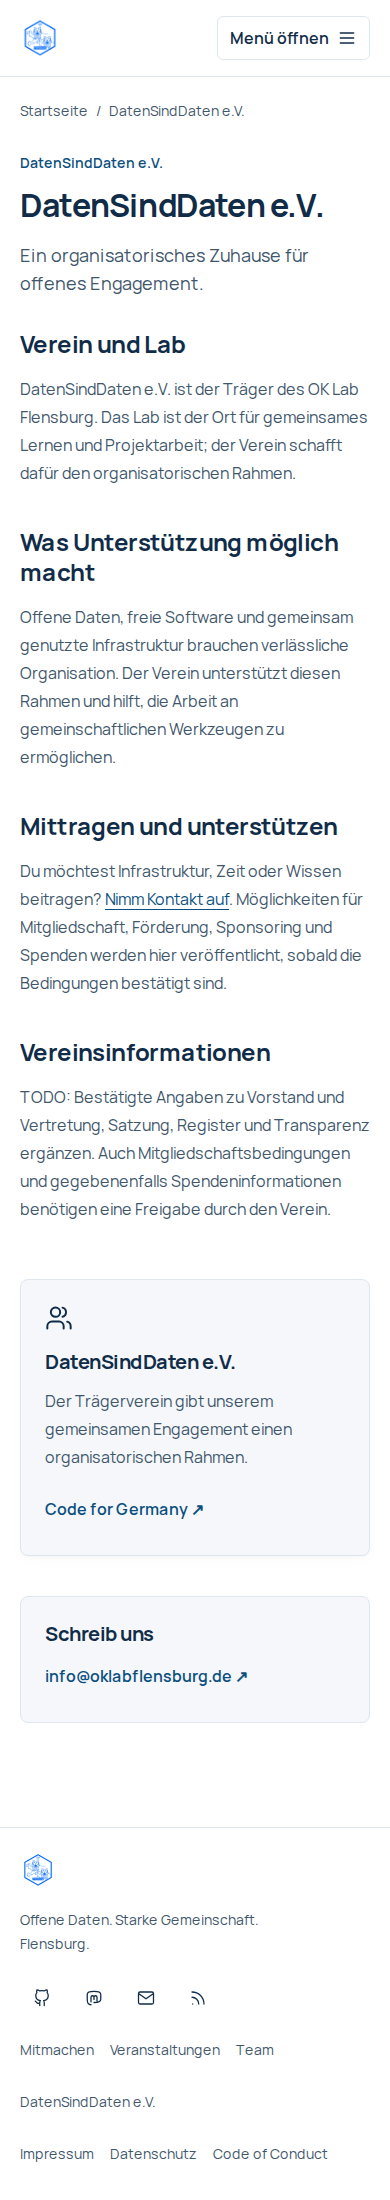
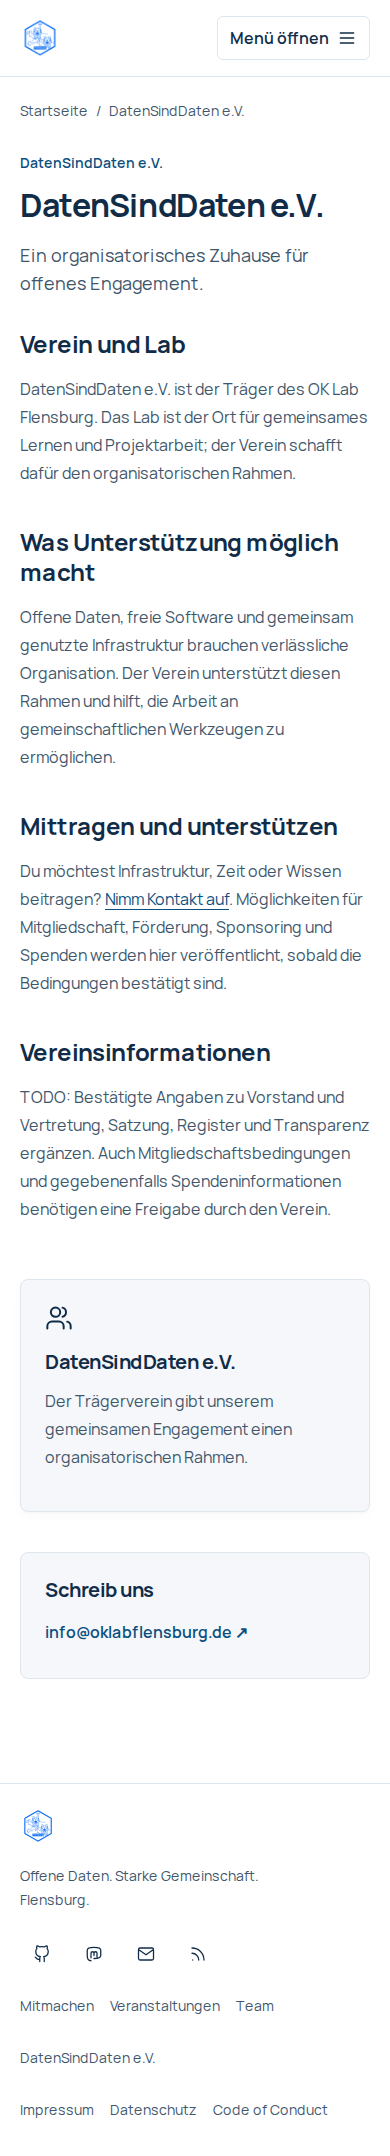
fix: correct association link handling

diff --git a/tests/e2e/site.spec.ts b/tests/e2e/site.spec.ts
@@ -2,6 +2,18 @@ import { test, expect } from '@playwright/test'
 import AxeBuilder from '@axe-core/playwright'
 import { editorialSlugs, localizedPath, site } from '../../shared/config/site'
 
+test('association information never substitutes the network link', async ({ page }) => {
+  for (const locale of ['de', 'da', 'en']) {
+    await page.goto(localizedPath('/daten-sind-daten', locale))
+    await expect(page.locator('.editorial-aside h2')).toHaveText(site.association.name)
+    await expect(page.locator('.editorial-aside a')).toHaveCount(0)
+    await expect(page.locator(`main a[href="${site.network.url}"]`)).toHaveCount(0)
+    await page.goto(localizedPath('/ueber-uns', locale))
+    await expect(page.locator('.editorial-aside a')).toHaveAttribute('href', site.network.url)
+    await expect(page.locator('.editorial-aside a')).toContainText(site.network.name)
+  }
+})
+
 for (const locale of ['de', 'da', 'en']) {
   test(`${locale}: all pages render on the server and hydrate cleanly`, async ({
     page,

diff --git a/app/pages/[page].vue b/app/pages/[page].vue
@@ -41,7 +41,7 @@ usePageSeo(
           {{ slug === 'ueber-uns' ? site.network.name : site.association.name }}
         </h2>
         <p>{{ $t(slug === 'ueber-uns' ? 'home.networkText' : 'home.associationText') }}</p>
-        <a :href="site.network.url" class="text-link"
+        <a v-if="slug === 'ueber-uns'" :href="site.network.url" class="text-link"
           >{{ site.network.name }} ↗</a
         >
       </aside>

diff --git a/docs/editorial-todos.md b/docs/editorial-todos.md
@@ -6,7 +6,7 @@ The implementation does not infer missing facts. The pages below remain explicit
 
 - **Legal notice:** confirm responsible provider, service address, representation and registration details. The previous page contained unresolved environment variables, a school-site title and outdated boilerplate; it did not establish current facts. Do not substitute the meetup venue for a legal address.
 - **Privacy:** confirm hosting provider, logging, retention, controller, legal bases, rights and email handling for the actual production environment. The application itself has no trackers, third-party embeds, external fonts or locale cookie.
-- **Association:** the supporting role of DatenSindDaten e.V. is specified by the task. Board, statutes, transparency documents, membership terms, funding, sponsorship and donations require verified material.
+- **Association:** the supporting role of DatenSindDaten e.V. is specified by the task. Board, statutes, transparency documents, membership terms, funding, sponsorship and donations require verified material. No verified canonical association website is recorded in this repository; keep the association information unlinked until one is confirmed and added to `site.association`. Never substitute the Code for Germany network URL.
 - **Code of Conduct:** the proposed text needs community adoption, named confidential contacts and an agreed reporting and enforcement process.
 - **Team:** collect explicit approval and maintain profiles in `content/team/`. No previous automatically collected profiles were carried forward.
 - **Events:** add confirmed one-off events to Content. Do not infer the year of an Open Data Day from an undated reference. Maintain holiday exceptions or cancellation notices before they occur.
